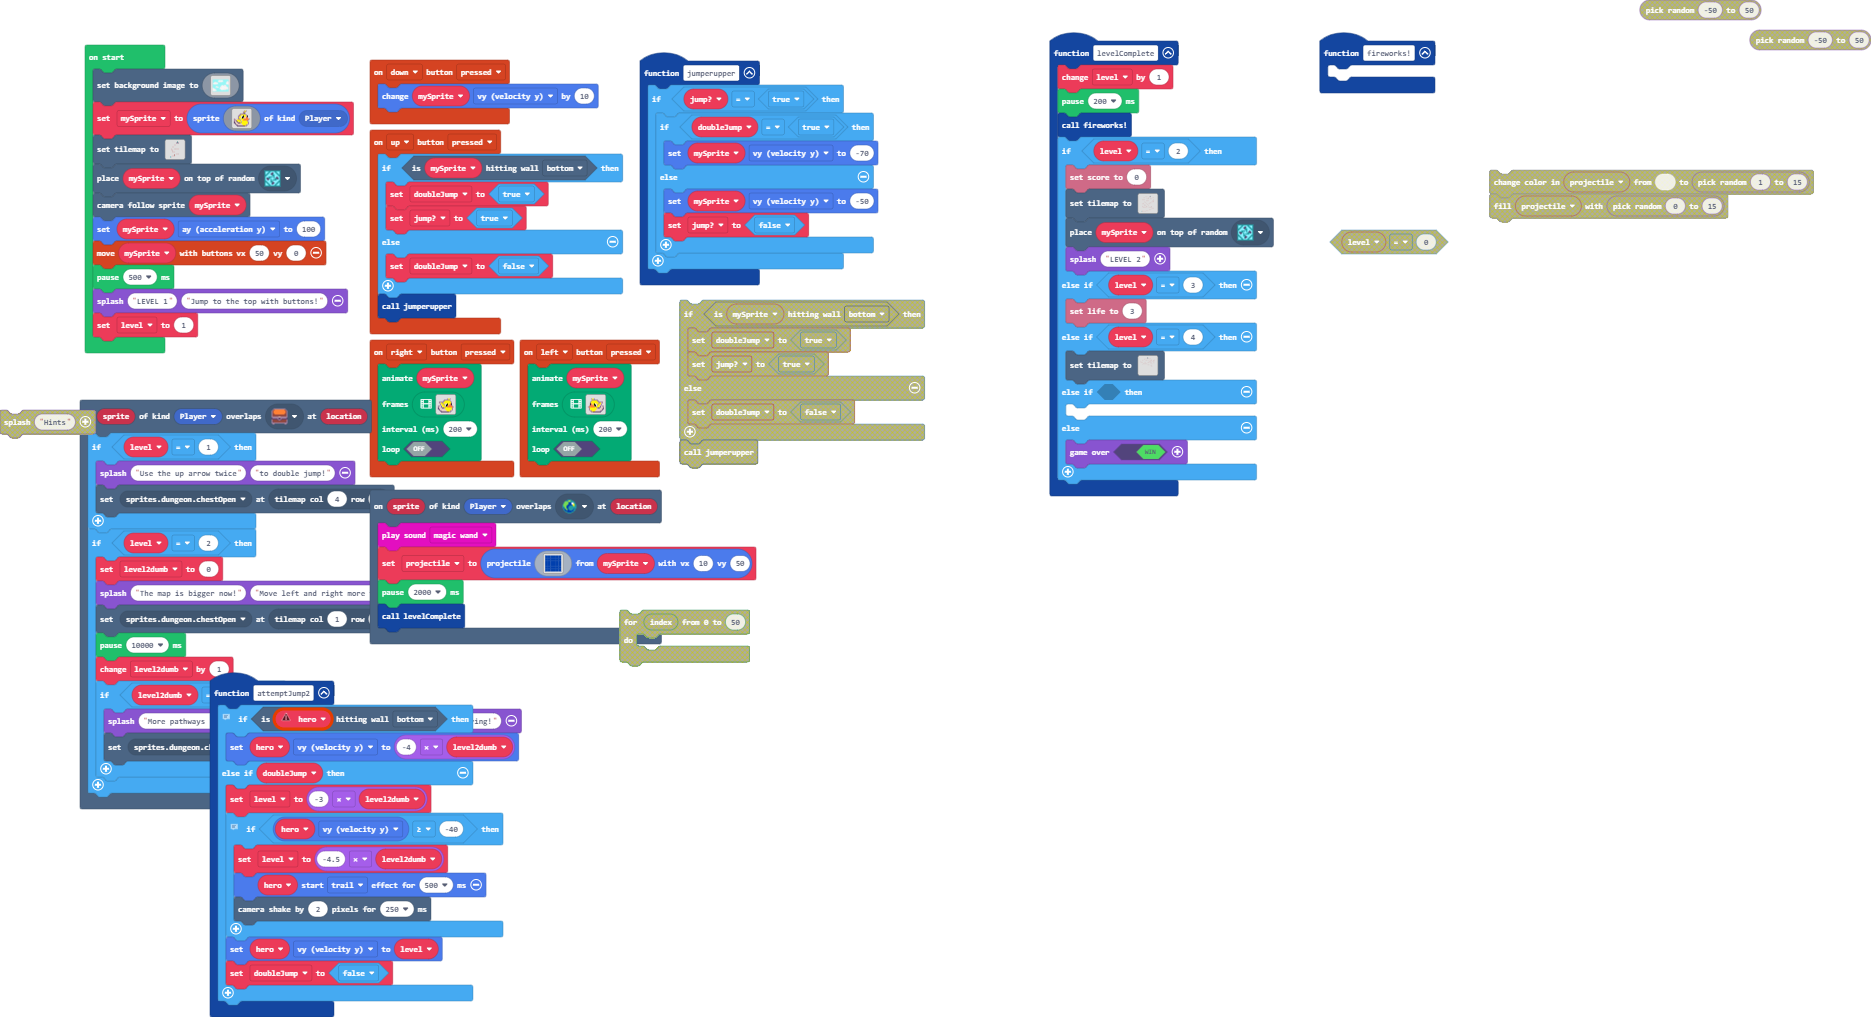
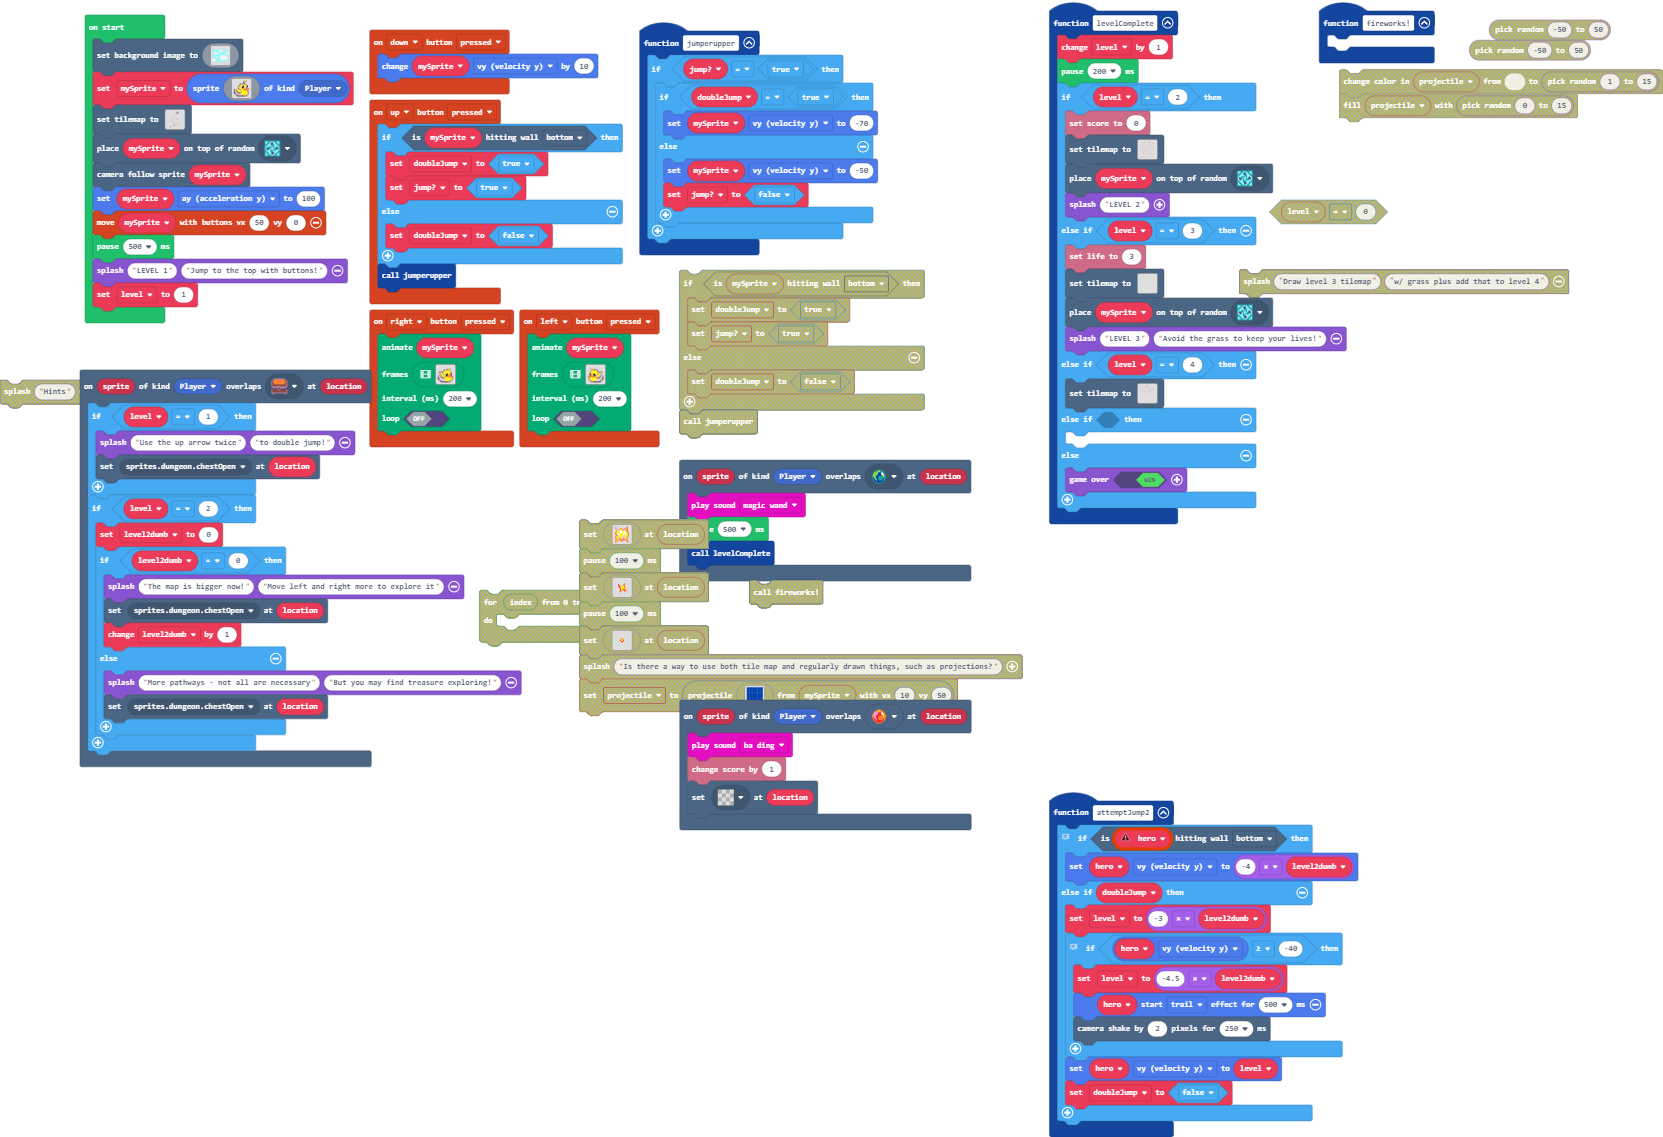
Update main.blocks, main.ts, tilemap.g.jres, tilemap.g.ts

diff --git a/tilemap.g.ts b/tilemap.g.ts
@@ -78,25 +78,6 @@ namespace myTiles {
 ................................
 ................................
 `, [myTiles.transparency16,sprites.dungeon.floorLight4,sprites.dungeon.floorLight5,sprites.dungeon.floorLightMoss,sprites.dungeon.floorDarkDiamond,sprites.dungeon.collectibleBlueCrystal], TileScale.Sixteen);
-            case "level5":
[1 lines of base64/hex data omitted]
-. . . . . . . . . . 
-. . . . . . 2 2 2 . 
-. . . . . . . . . . 
-. . . . 2 2 . . . . 
-. . . . . . . . . . 
-. . 2 2 . . . . . . 
-. . . . . . . . . . 
-. 2 . . 2 2 2 2 2 . 
-. 2 2 . . . . . . . 
-. . 2 . . . . . . . 
-. . 2 2 2 . . . . . 
-. . . . . . . . . . 
-. . . . . . 2 2 2 . 
-. . . . . . . . . . 
-. . 2 2 2 . . . . . 
-. 2 . . . . . . . . 
-`, [myTiles.transparency16,sprites.dungeon.collectibleBlueCrystal,sprites.dungeon.collectibleInsignia,sprites.dungeon.floorDarkDiamond,sprites.dungeon.floorLight4,sprites.dungeon.floorLightMoss,sprites.dungeon.floorLight5,sprites.dungeon.chestClosed], TileScale.Sixteen);
             case "level6":
             case "level6":return tiles.createTilemap(hex`1000100000000000000000000000000000000000000000000000000000000000000000000000000000000000000000000000000000000000000000000000000000000000000000000000000000000000000000000000000000000000000000000000000000000000000000000000000000000000000000000000000000000000000000000000000000000000000000000000000000000000000000000000000000000000000000000000000000000000000000000000000000000000000000000000000000000000000000000000000000000000000000000000000000000000000000000000000000000000000000000000000000000000000000000000000000000000`, img`
 . . . . . . . . . . . . . . . . 
@@ -116,8 +97,46 @@ namespace myTiles {
 . . . . . . . . . . . . . . . . 
 . . . . . . . . . . . . . . . . 
 `, [myTiles.transparency16], TileScale.Sixteen);
+            case "level5":
[1 lines of base64/hex data omitted]
+. . . . . . . . . . 
+. . . . . . 2 2 2 . 
+. . . . . . . . . . 
+. . . . 2 2 . . . . 
+. . . . . . . . . . 
+. . 2 2 . . . . . . 
+. . . . . . . . . . 
+. 2 . . 2 2 2 2 2 . 
+. 2 2 . . . . . . . 
+. . 2 . . . . . . . 
+. . 2 2 2 . . . . . 
+. . . . . . . . . . 
+. . . . . . 2 2 2 . 
+. . . . . . . . . . 
+. . 2 2 2 . . . . . 
+. 2 . . . . . . . . 
+`, [myTiles.transparency16,sprites.dungeon.collectibleBlueCrystal,sprites.dungeon.collectibleInsignia,sprites.dungeon.floorDarkDiamond,sprites.dungeon.floorLight4,sprites.dungeon.floorLightMoss,sprites.dungeon.floorLight5,sprites.dungeon.chestClosed], TileScale.Sixteen);
+            case "level7":
+            case "level7":return tiles.createTilemap(hex`1000100000000000000000000000000000000000000000000000000000000000000000000000000000000000000000000000000000000000000000000000000000000000000000000000000000000000000000000000000000000000000000000000000000000000000000000000000000000000000000000000000000000000000000000000000000000000000000000000000000000000000000000000000000000000000000000000000000000000000000000000000000000000000000000000000000000000000000000000000000000000000000000000000000000000000000000000000000000000000000000000000000000000000000000000000000000000`, img`
+. . . . . . . . . . . . . . . . 
+. . . . . . . . . . . . . . . . 
+. . . . . . . . . . . . . . . . 
+. . . . . . . . . . . . . . . . 
+. . . . . . . . . . . . . . . . 
+. . . . . . . . . . . . . . . . 
+. . . . . . . . . . . . . . . . 
+. . . . . . . . . . . . . . . . 
+. . . . . . . . . . . . . . . . 
+. . . . . . . . . . . . . . . . 
+. . . . . . . . . . . . . . . . 
+. . . . . . . . . . . . . . . . 
+. . . . . . . . . . . . . . . . 
+. . . . . . . . . . . . . . . . 
+. . . . . . . . . . . . . . . . 
+. . . . . . . . . . . . . . . . 
+`, [myTiles.transparency16], TileScale.Sixteen);
             case "level1":
[2 lines of base64/hex data omitted]
 ..........................
 ..........................
 ........2222....222.......
@@ -126,9 +145,9 @@ namespace myTiles {
 ..............2...........
 ..........22222..2222.....
 ..........................
-.222222................22.
+.222222.........2......22.
 ..........................
-.........222222.......222.
+.........222222..2....222.
 ........................2.
 ......2.............22222.
 .....2.2..................
@@ -143,14 +162,14 @@ namespace myTiles {
 .222.....222..............
 ...2222222....222222......
 ..........................
-.....................2222.
+............2........2222.
 ....................2.....
 ..........................
 ...............2222.......
 ..........................
 .........22222............
 ...222222.................
-`, [myTiles.transparency16,sprites.dungeon.floorLight4,sprites.dungeon.floorLightMoss,sprites.dungeon.floorLight5,sprites.dungeon.floorDarkDiamond,sprites.dungeon.collectibleBlueCrystal,sprites.dungeon.chestClosed,sprites.dungeon.collectibleInsignia], TileScale.Sixteen);
+`, [myTiles.transparency16,sprites.dungeon.floorLight4,sprites.dungeon.floorLightMoss,sprites.dungeon.floorLight5,sprites.dungeon.floorDarkDiamond,sprites.dungeon.collectibleBlueCrystal,sprites.dungeon.chestClosed,sprites.dungeon.collectibleInsignia,sprites.dungeon.collectibleRedCrystal], TileScale.Sixteen);
         }
         return null;
     })

diff --git a/main.ts b/main.ts
@@ -146,31 +146,23 @@ function jumperupper () {
 }
 scene.onOverlapTile(SpriteKind.Player, sprites.dungeon.collectibleBlueCrystal, function (sprite, location) {
     music.magicWand.play()
-    projectile = sprites.createProjectileFromSprite(img`
-        8 8 8 8 8 8 
-        8 8 8 8 8 8 
-        8 8 8 8 8 8 
-        8 8 8 8 8 8 
-        8 8 8 8 8 8 
-        8 8 8 8 8 8 
-        `, mySprite, 10, 50)
-    pause(2000)
+    pause(500)
     levelComplete()
 })
 scene.onOverlapTile(SpriteKind.Player, sprites.dungeon.chestClosed, function (sprite, location) {
     if (level == 1) {
         game.splash("Use the up arrow twice", "to double jump!")
-        tiles.setTileAt(tiles.getTileLocation(4, 13), sprites.dungeon.chestOpen)
+        tiles.setTileAt(location, sprites.dungeon.chestOpen)
     }
     if (level == 2) {
         level2dumb = 0
-        game.splash("The map is bigger now!", "Move left and right more to explore it")
-        tiles.setTileAt(tiles.getTileLocation(1, 31), sprites.dungeon.chestOpen)
-        pause(10000)
-        level2dumb += 1
-        if (level2dumb == 1) {
+        if (level2dumb == 0) {
+            game.splash("The map is bigger now!", "Move left and right more to explore it")
+            tiles.setTileAt(location, sprites.dungeon.chestOpen)
+            level2dumb += 1
+        } else {
             game.splash("More pathways - not all are necessary", "But you may find treasure exploring!")
-            tiles.setTileAt(tiles.getTileLocation(19, 22), sprites.dungeon.chestOpen)
+            tiles.setTileAt(location, sprites.dungeon.chestOpen)
         }
     }
 })
@@ -290,7 +282,6 @@ controller.down.onEvent(ControllerButtonEvent.Pressed, function () {
 function levelComplete () {
     level += 1
     pause(200)
-    fireworks()
     if (level == 2) {
         info.setScore(0)
         tiles.setTilemap(tilemap`level1`)
@@ -298,6 +289,9 @@ function levelComplete () {
         game.splash("LEVEL 2")
     } else if (level == 3) {
         info.setLife(3)
+        tiles.setTilemap(tilemap`level7`)
+        tiles.placeOnRandomTile(mySprite, sprites.dungeon.collectibleInsignia)
+        game.splash("LEVEL 3", "Avoid the grass to keep your lives!")
     } else if (level == 4) {
         tiles.setTilemap(tilemap`level2`)
     } else if (false) {
@@ -309,7 +303,11 @@ function levelComplete () {
 function fireworks () {
 	
 }
-let projectile: Sprite = null
+scene.onOverlapTile(SpriteKind.Player, sprites.dungeon.collectibleRedCrystal, function (sprite, location) {
+    music.baDing.play()
+    info.changeScoreBy(1)
+    tiles.setTileAt(location, assets.tile`transparency16`)
+})
 let level2dumb = 0
 let jump = false
 let doubleJump = false
